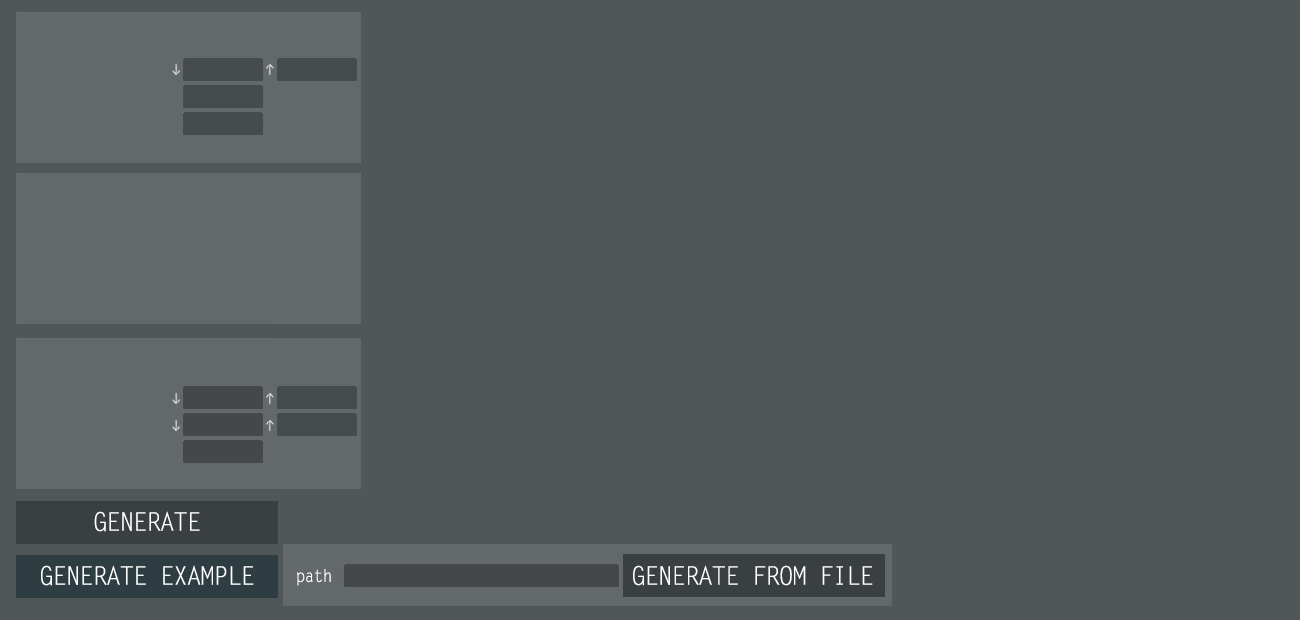
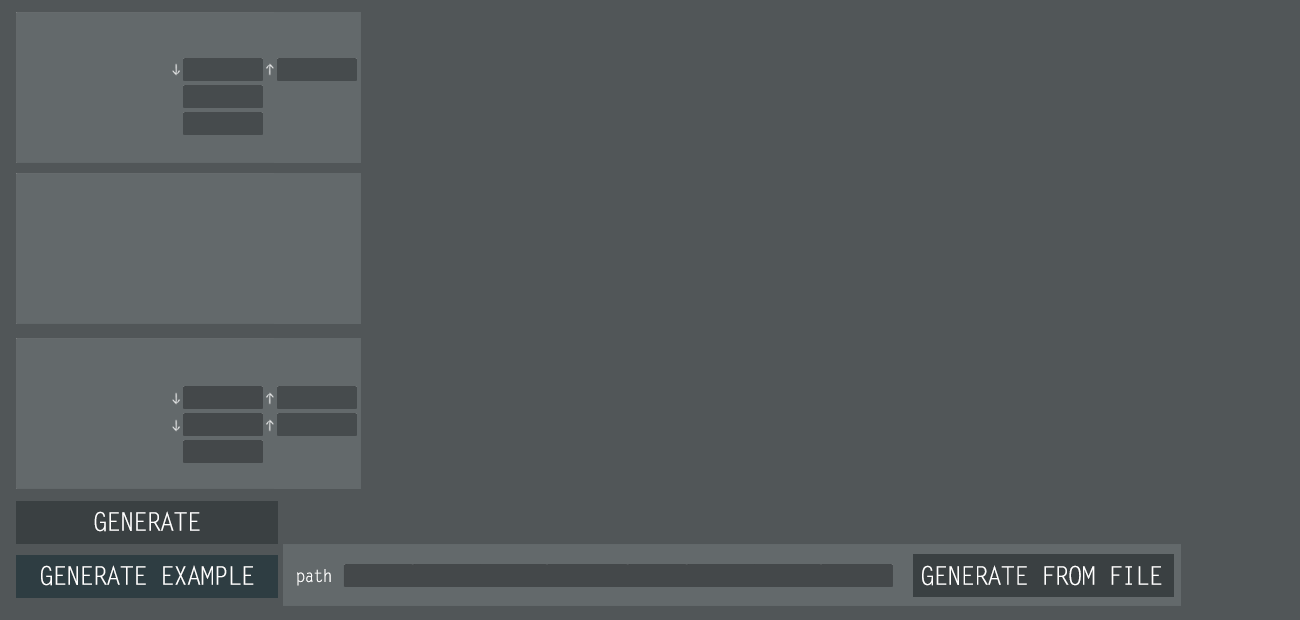
updated gui

Changed region(s): [[0.4615, 0.8887, 0.8923, 0.9806]]

diff --git a/core/src/wildfire/simulation/GraphicController.java b/core/src/wildfire/simulation/GraphicController.java
@@ -22,7 +22,6 @@ import com.google.gson.Gson;
 import com.google.gson.stream.JsonReader;
 import wildfire.simulation.Data.Direction;
 
-import javax.xml.ws.Response;
 import java.io.FileNotFoundException;
 import java.io.FileReader;
 import java.nio.file.Path;
@@ -48,13 +47,14 @@ public class GraphicController implements ApplicationListener, InputProcessor {
     private SpriteBatch batch;
     public PerspectiveCamera camera;
     private BitmapFont font;
-    private StringBuilder[] texts = new StringBuilder[6];    //bufor do  wpisywania atrybut�w terenu
+    private StringBuilder[] texts = new StringBuilder[10];    //bufor do  wpisywania atrybut�w terenu
 
     /**
      * Available options in GUI
      */
     public enum Choice {
-        GENERATE(10), T_AREA(0), T_ROUGHNESS(1), T_MAXIMUM_HEIGHT(2), W_VELOCITY(3), W_DIRECTION(4), W_HUMIDITY(5), NONE(9), GENERATE_EXAMPLE(10), FINISHED(11);
+        GENERATE(10), T_AREA(0), T_ROUGHNESS(1), T_MAXIMUM_HEIGHT(2), W_VELOCITY(3), W_DIRECTION(4), W_HUMIDITY(5), NONE(12), GENERATE_EXAMPLE(10), FINISHED(11),
+        T_AREA2(6),W_DIRECTION2(7), W_VELOCITY2(8), PATH(9), GENERATE_FILE(10);
         private final int value;
 
         Choice(int value) {
@@ -102,6 +102,10 @@ public class GraphicController implements ApplicationListener, InputProcessor {
         texts[3] = new StringBuilder("4");
         texts[4] = new StringBuilder("N");
         texts[5] = new StringBuilder("72");
+        texts[6] = new StringBuilder("100");
+        texts[7] = new StringBuilder("N");
+        texts[8] = new StringBuilder("4");
+        texts[9] = new StringBuilder("D:\\Biblioteka\\Studia\\VII semestr\\studio projektowe 2\\example.json");
         font = new BitmapFont();
 
         option = Choice.NONE;
@@ -158,6 +162,11 @@ public class GraphicController implements ApplicationListener, InputProcessor {
         font.draw(batch, texts[3].toString(), 188, screensizeY - 394);
         font.draw(batch, texts[4].toString(), 188, screensizeY - 422);
         font.draw(batch, texts[5].toString(), 188, screensizeY - 449);
+
+        font.draw(batch, texts[6].toString(), 288, screensizeY - 65);
+        font.draw(batch, texts[7].toString(), 288, screensizeY - 422);
+        font.draw(batch, texts[8].toString(), 288, screensizeY - 394);
+        font.draw(batch, texts[9].toString(), 348, screensizeY - 570);
         batch.end();
     }
 
@@ -295,13 +304,24 @@ public class GraphicController implements ApplicationListener, InputProcessor {
             if (GraphicUtils.inBorders(X, 16, 280) && GraphicUtils.inBorders(Y, screensizeY - 600, screensizeY - 556)) {
                 option = Choice.GENERATE_EXAMPLE;
             }
+            //option GENERATE FROM FILE
+            if (GraphicUtils.inBorders(X, 940, 1200) && GraphicUtils.inBorders(Y, screensizeY - 600, screensizeY - 556)) {
+                t = loadFromFile(Paths.get(texts[9].toString()));
+                System.out.println("Button");
+                //example from file: t = loadFromFile(Paths.get("D:\\Biblioteka\\Studia\\VII semestr\\studio projektowe 2\\example.json"));
+                option = Choice.GENERATE_FILE;
+            }
             //option GENERATE
             if (GraphicUtils.inBorders(X, 16, 280) && GraphicUtils.inBorders(Y, screensizeY - 544, screensizeY - 500)) {
-                Data.setWindVelocity(Double.parseDouble(texts[3].toString()));
-                Data.setDirection(Direction.valueOf(texts[4].toString()));
+                //Data.setWindVelocity(Double.parseDouble(texts[3].toString()));
+                //Data.setDirection(Direction.valueOf(texts[4].toString()));
                 Data.setHumidity(Integer.parseInt(texts[5].toString()));
-                t = new Terrain(Integer.parseInt(texts[0].toString()), 10, Data.vegetation_probability, (int) (Data.percent_oak), Integer.parseInt(texts[2].toString()), Integer.parseInt(texts[1].toString()));
-                //example from file: t = loadFromFile(Paths.get("D:\\Biblioteka\\Studia\\VII semestr\\studio projektowe 2\\example.json"));
+                Data.windInfo.velocities.setSecond(Double.parseDouble(texts[8].toString()));
+                Data.windInfo.velocities.setFirst(Double.parseDouble(texts[3].toString()));
+                Data.windInfo.directions.setFirst(Direction.valueOf(texts[4].toString()));
+                Data.windInfo.directions.setSecond(Direction.valueOf(texts[7].toString()));
+
+                t = new Terrain(Integer.parseInt(texts[0].toString()), Integer.parseInt(texts[6].toString()), Data.vegetation_probability, (int) (Data.percent_oak), Integer.parseInt(texts[2].toString()), Integer.parseInt(texts[1].toString()));
                 option = Choice.GENERATE;
             }
             //option VEGETATION
@@ -334,7 +354,6 @@ public class GraphicController implements ApplicationListener, InputProcessor {
                 }
             }
             //option soil
-            //TODO
             if (GraphicUtils.inBorders(X, 270, 350)) {
                 if (GraphicUtils.inBorders(Y, 380, 410)) {
                     textures.chosenSoil = new Texture(assetsPath + "soilDry.png");
@@ -370,6 +389,23 @@ public class GraphicController implements ApplicationListener, InputProcessor {
                     option = Choice.W_HUMIDITY;
                 }
             }
+            if (GraphicUtils.inBorders(X,285,363)) {
+                if (GraphicUtils.inBorders(Y, screensizeY - 80, screensizeY - 60)) {
+                    option = Choice.T_AREA2;
+                }
+                if (GraphicUtils.inBorders(Y, screensizeY - 436, screensizeY - 414)) {
+                    option = Choice.W_DIRECTION2;
+                }
+                if (GraphicUtils.inBorders(Y, screensizeY - 409, screensizeY - 387)) {
+                    option = Choice.W_VELOCITY2;
+                }
+            }
+            //TODO x and y for path
+            if ((GraphicUtils.inBorders(Y, screensizeY - 590, screensizeY - 570))
+                    && (GraphicUtils.inBorders(X,345, 930 ))) {
+                option = Choice.PATH;
+            }
+
         }
         return false;
     }
